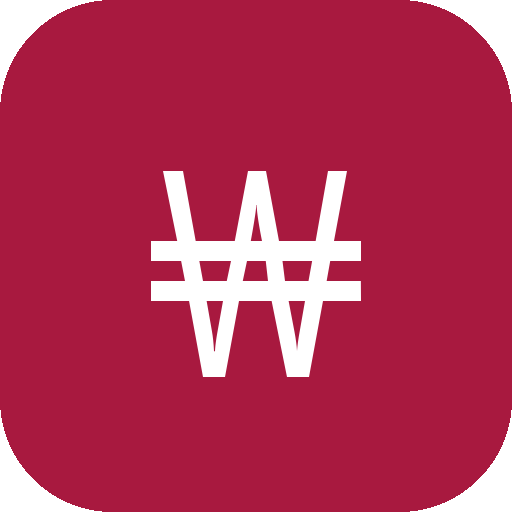
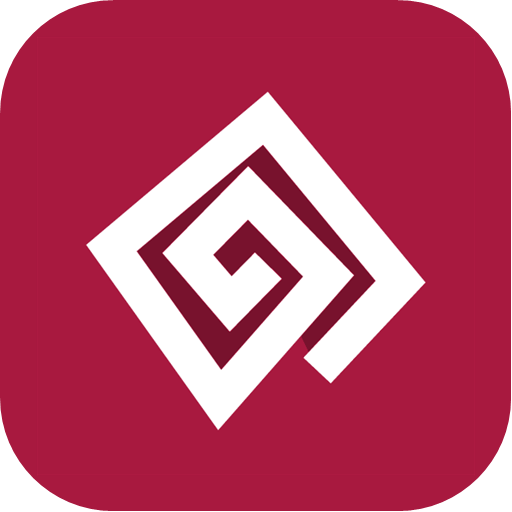
앱 아이콘 교체: 레드와인 배경 나선 무늬(일반·작은·아이폰·마스커블)

diff --git a/sw.js b/sw.js
@@ -1,9 +1,9 @@
 // 오프라인에서도 열리도록 화면 파일을 저장해 둔다.
 // 온라인이면 항상 새 파일을 먼저 받아서(network-first) 업데이트가 바로 반영된다.
-const CACHE = "gagyebu-v194";
+const CACHE = "gagyebu-v195";
 const FILES = [
   "./", "index.html", "style.css", "app.js", "core.js", "model.js", "uikit.js", "home.js", "settle.js", "list.js", "entry.js", "manage.js", "store.js", "sync.js", "fx.js", "xlsx.js", "photos.js", "lock.js", "config.js", "manifest.webmanifest",
-  "icons/icon-192.png", "icons/icon-512.png", "icons/apple-touch-icon.png",
+  "icons/icon-192.png", "icons/icon-512.png", "icons/icon-maskable-512.png", "icons/apple-touch-icon.png",
 ];
 
 self.addEventListener("install", (e) => {
